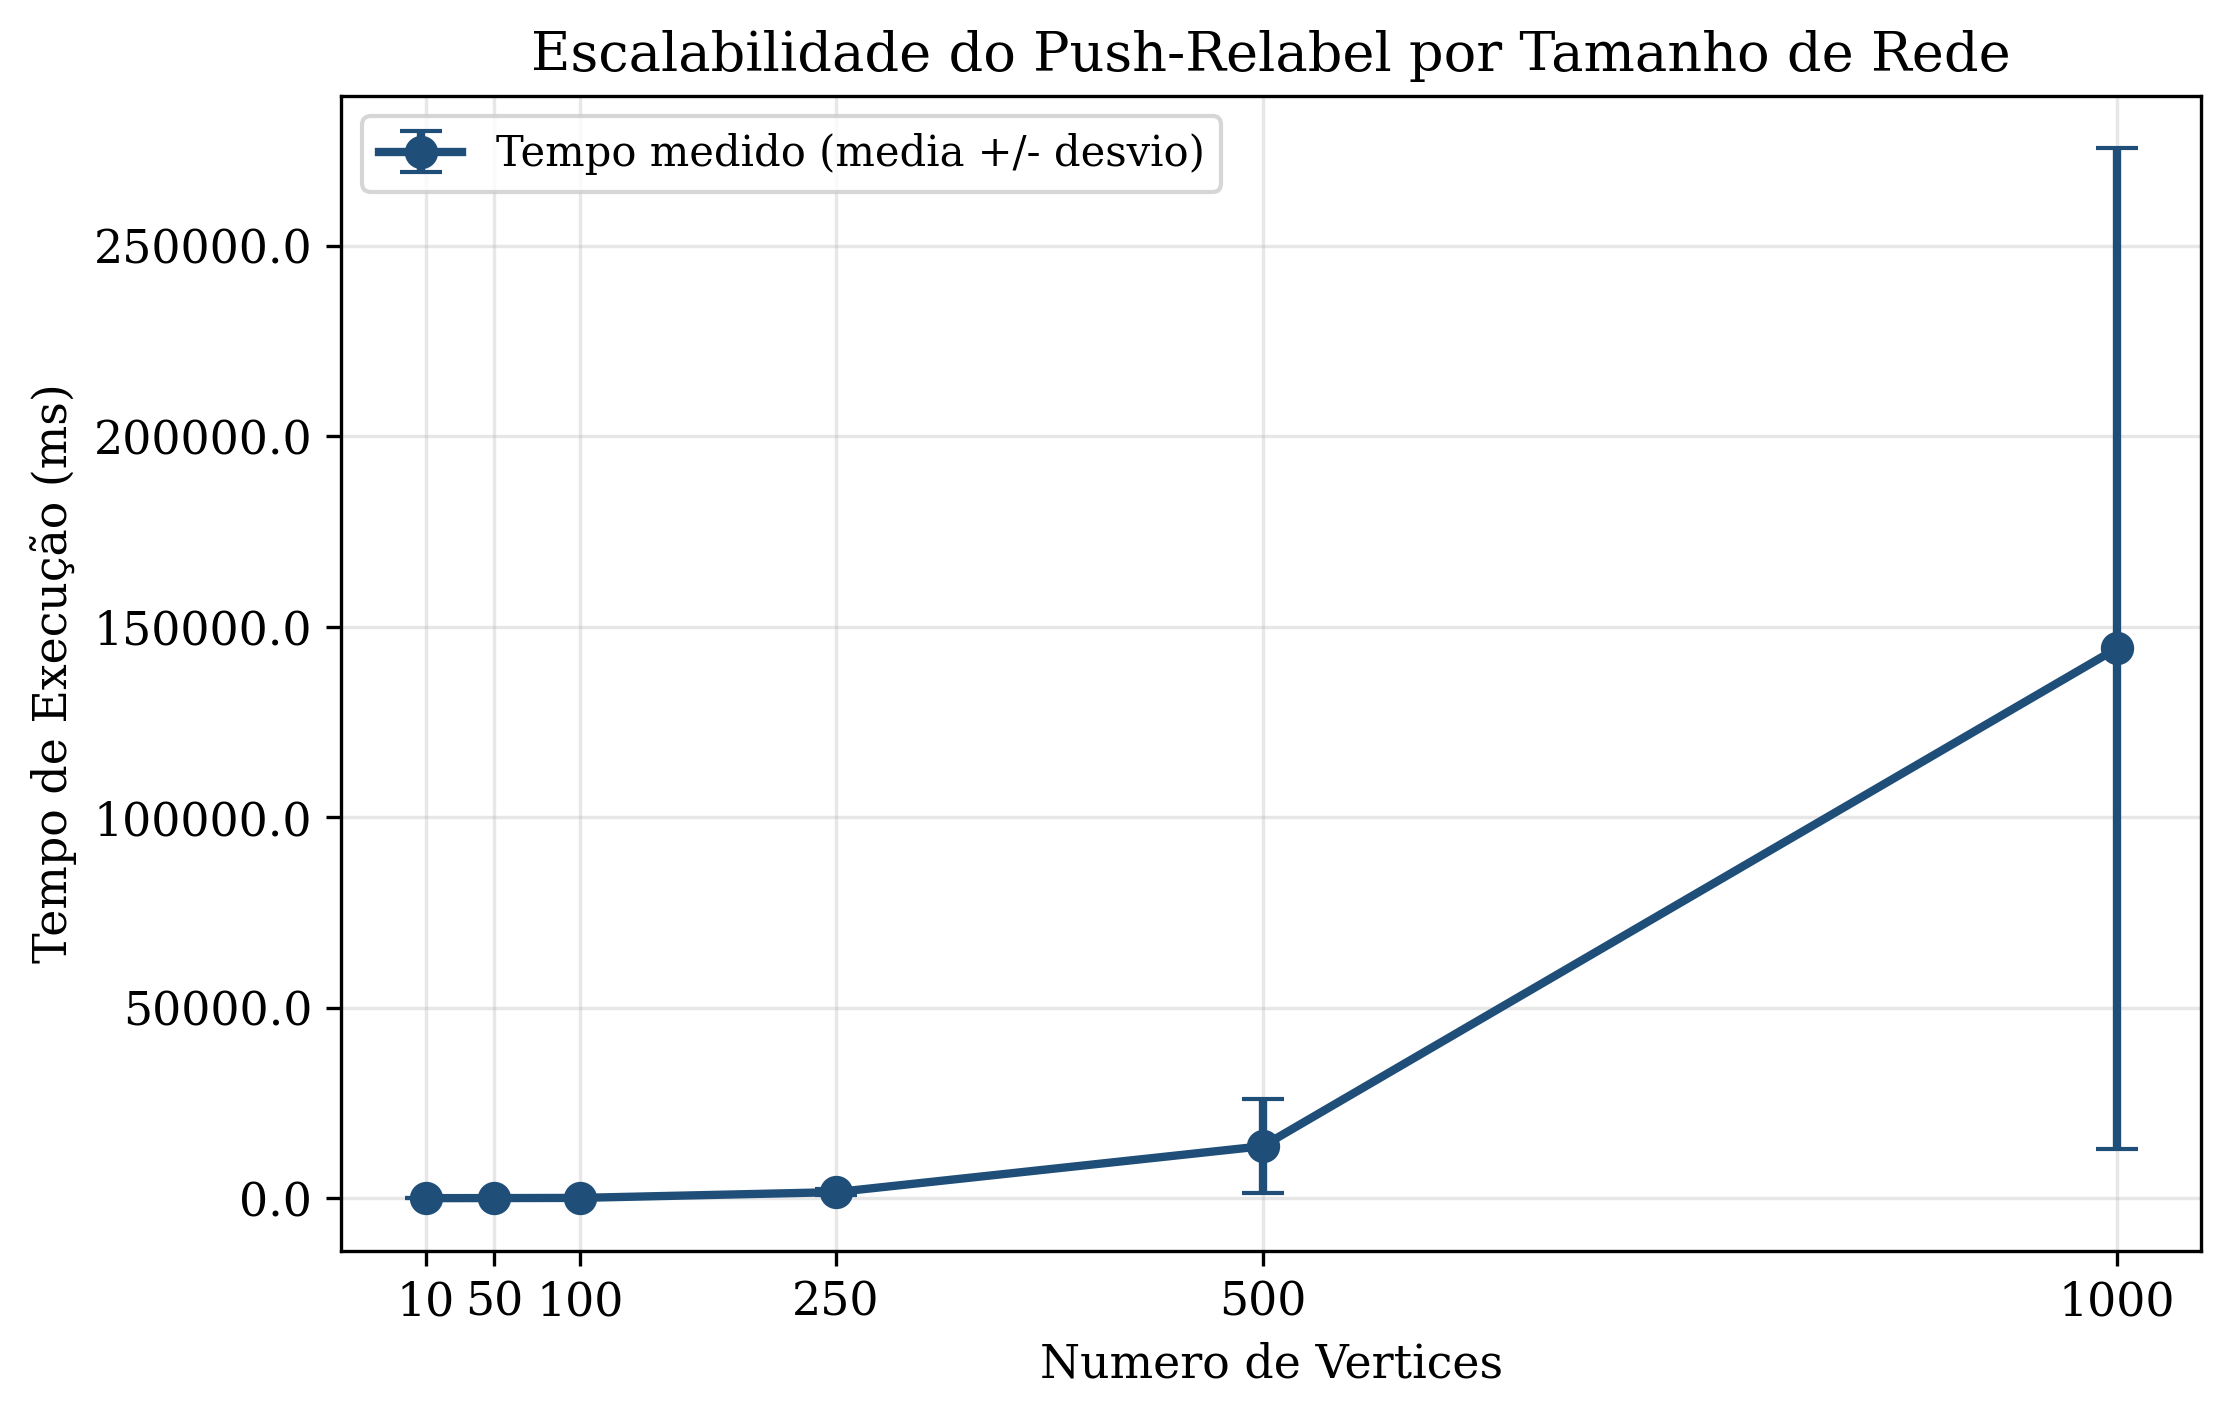
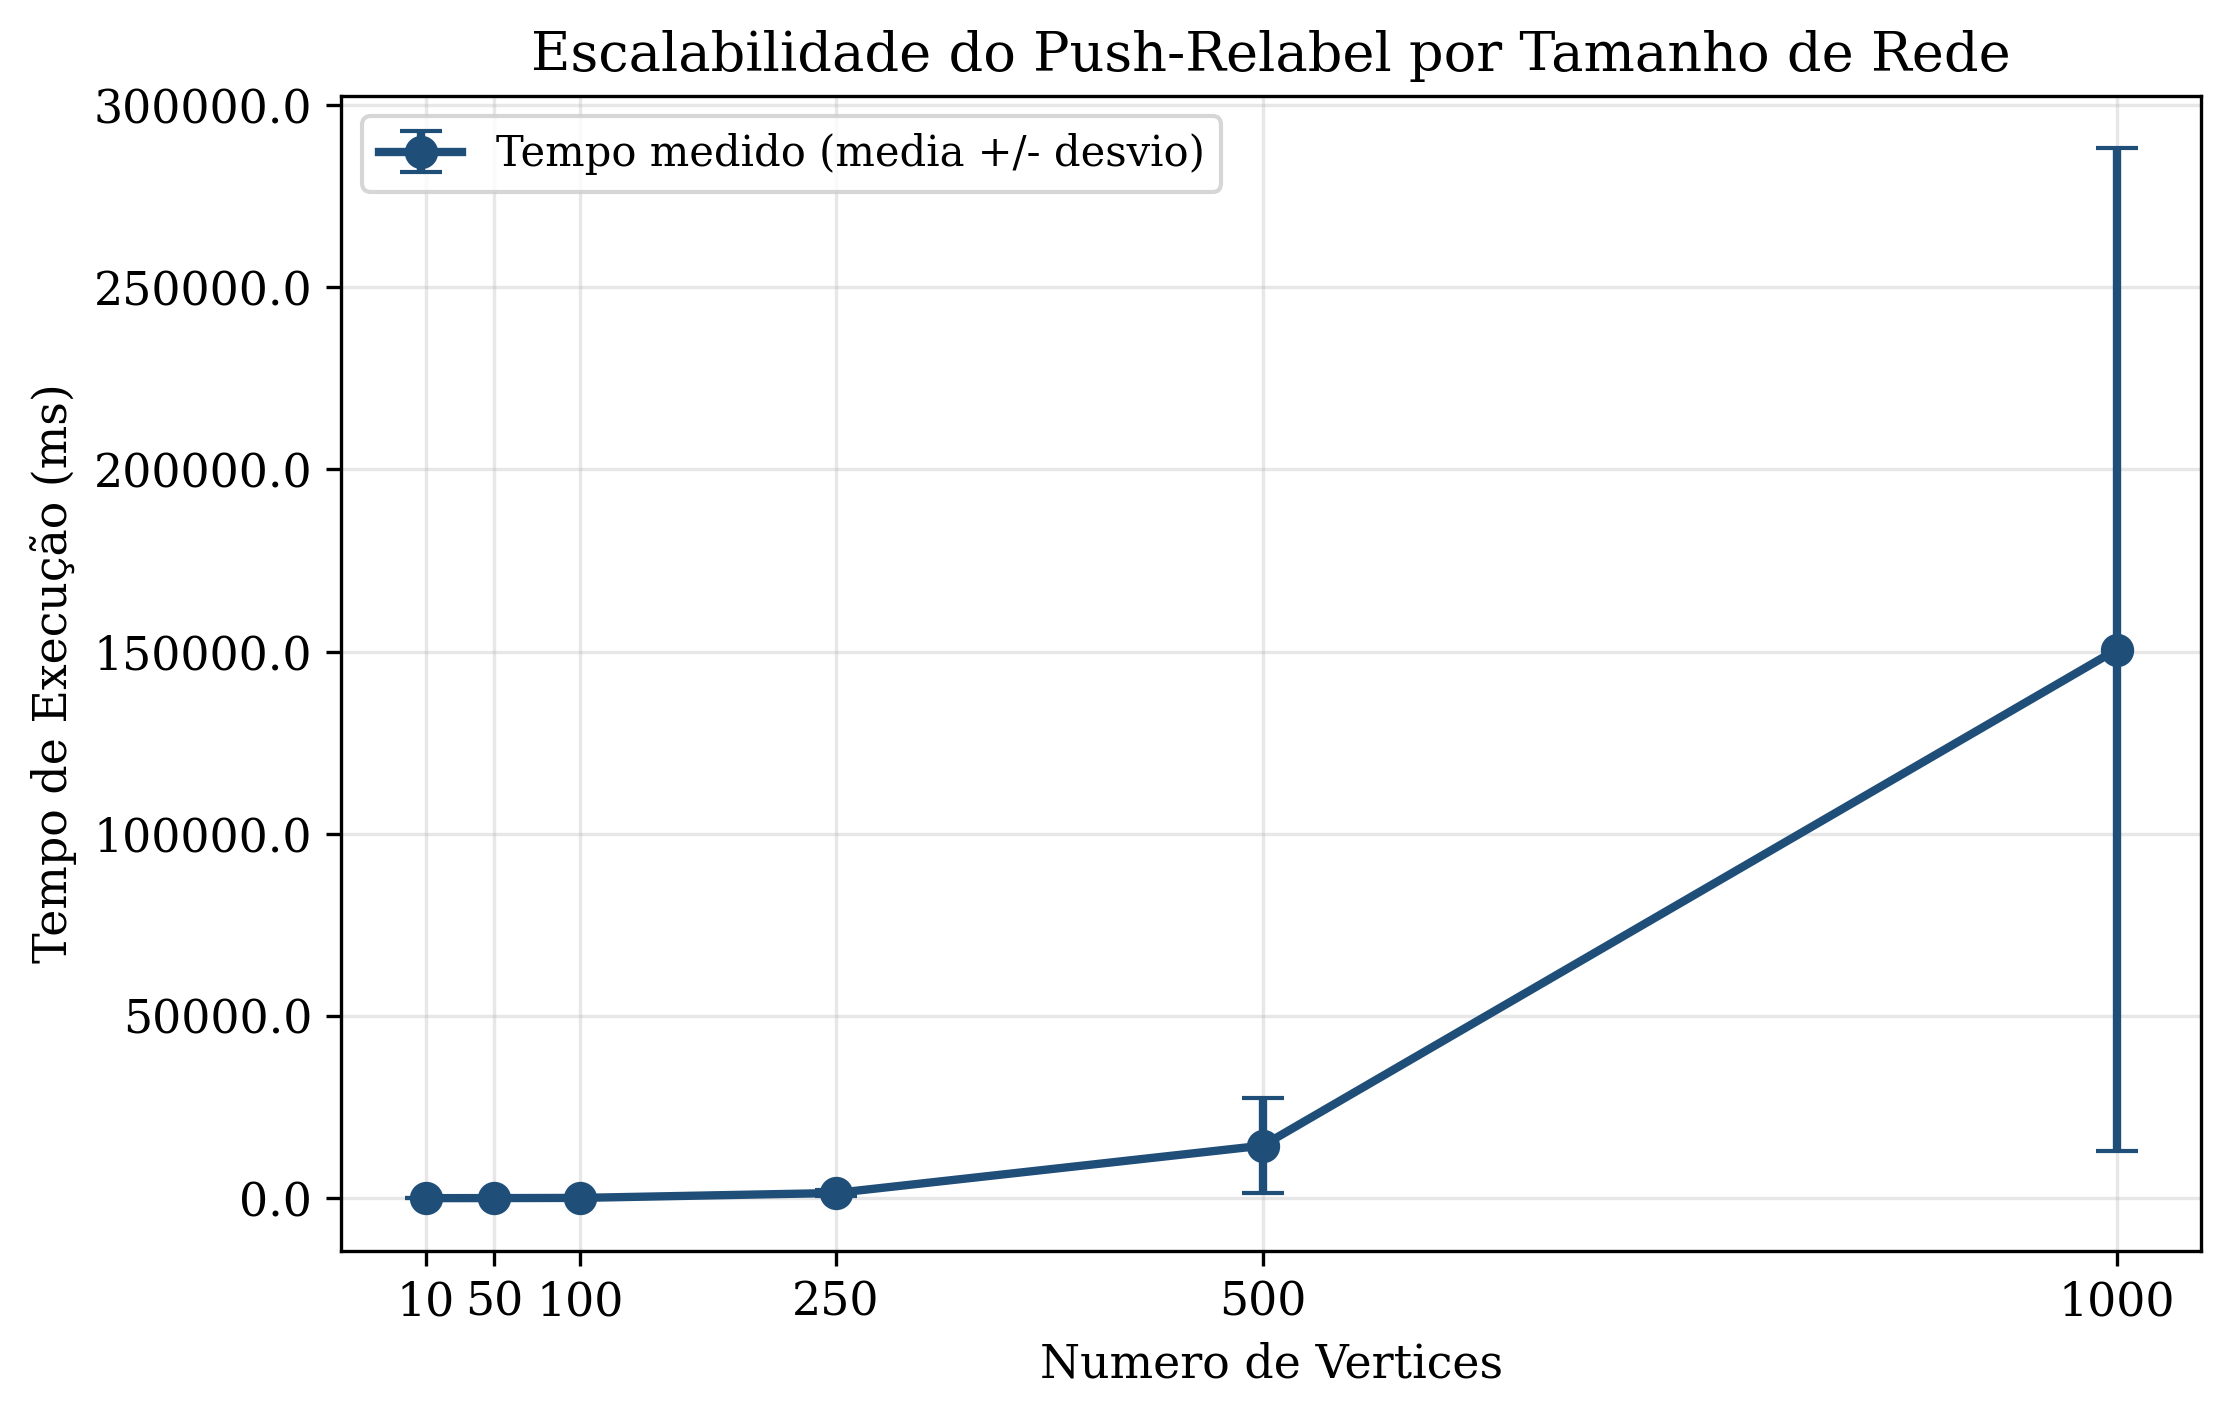
melhoras de visualização e README

diff --git a/tabela_densidade.tex b/tabela_densidade.tex
@@ -5,12 +5,12 @@
 \toprule
 Densidade & Rep. & Arestas (aprox.) & Fluxo Max. (media) & Tempo (ms) & Push (media) & Relabel (media) & Gargalos (media) \\
 \midrule
-0.1 & 7 & 990 & 451.7 & 23.454 +/- 21.024 & 7445 +/- 6695 & 5423 +/- 4876 & 8.3 \\
-0.2 & 7 & 1980 & 821.3 & 40.986 +/- 36.943 & 8611 +/- 7857 & 5537 +/- 4998 & 14.9 \\
-0.3 & 15 & 2970 & 1420.1 & 54.230 +/- 50.516 & 6899 +/- 6445 & 5234 +/- 4892 & 28.5 \\
-0.5 & 7 & 4950 & 2417.7 & 123.879 +/- 82.101 & 11760 +/- 8217 & 6994 +/- 4652 & 47.7 \\
-0.7 & 7 & 6930 & 3310.2 & 169.716 +/- 112.911 & 11400 +/- 8006 & 7019 +/- 4673 & 67.6 \\
-1.0 & 15 & 9900 & 4828.9 & 116.753 +/- 158.246 & 6262 +/- 8158 & 3385 +/- 4686 & 99.0 \\
+0.1 & 7 & 990 & 451.7 & 25.393 +/- 22.666 & 7445 +/- 6695 & 5423 +/- 4876 & 8.3 \\
+0.2 & 7 & 1980 & 821.3 & 42.708 +/- 38.480 & 8611 +/- 7857 & 5537 +/- 4998 & 14.9 \\
+0.3 & 15 & 2970 & 1420.1 & 58.696 +/- 54.745 & 6899 +/- 6445 & 5234 +/- 4892 & 28.5 \\
+0.5 & 7 & 4950 & 2417.7 & 131.742 +/- 87.400 & 11760 +/- 8217 & 6994 +/- 4652 & 47.7 \\
+0.7 & 7 & 6930 & 3310.2 & 188.361 +/- 124.685 & 11400 +/- 8006 & 7019 +/- 4673 & 67.6 \\
+1.0 & 15 & 9900 & 4828.9 & 129.841 +/- 176.768 & 6262 +/- 8158 & 3385 +/- 4686 & 99.0 \\
 \bottomrule
 \end{tabular}
 \end{table}

diff --git a/tabela_escalabilidade.tex b/tabela_escalabilidade.tex
@@ -6,11 +6,11 @@
 Vertices & Arestas (aprox.) & Fluxo Max. (media) & Tempo (ms) & Push (media) & Relabel (media) & Gargalos (media) \\
 \midrule
 10 & 27 & 153.4 & 0.044 +/- 0.026 & 25 +/- 16 & 20 +/- 14 & 3.6 \\
-50 & 735 & 733.5 & 13.040 +/- 0.455 & 3334 +/- 294 & 2320 +/- 6 & 13.8 \\
-100 & 2970 & 1312.4 & 61.004 +/- 53.872 & 9167 +/- 8125 & 5851 +/- 5177 & 27.2 \\
-250 & 18675 & 3728.7 & 1573.684 +/- 879.800 & 66742 +/- 38442 & 49332 +/- 27316 & 74.2 \\
-500 & 74850 & 6949.6 & 13642.189 +/- 12385.280 & 203762 +/- 189081 & 149193 +/- 135325 & 143.6 \\
-1000 & 299700 & 14046.0 & 144338.993 +/- 131333.650 & 889486 +/- 838771 & 598351 +/- 544412 & 288.0 \\
+50 & 735 & 733.5 & 13.107 +/- 0.215 & 3334 +/- 294 & 2320 +/- 6 & 13.8 \\
+100 & 2970 & 1312.4 & 61.206 +/- 53.964 & 9167 +/- 8125 & 5851 +/- 5177 & 27.2 \\
+250 & 18675 & 3728.7 & 1414.139 +/- 790.430 & 66742 +/- 38442 & 49332 +/- 27316 & 74.2 \\
+500 & 74850 & 6949.6 & 14418.455 +/- 13129.740 & 203762 +/- 189081 & 149193 +/- 135325 & 143.6 \\
+1000 & 299700 & 14046.0 & 150581.241 +/- 137613.363 & 889486 +/- 838771 & 598351 +/- 544412 & 288.0 \\
 \bottomrule
 \end{tabular}
 \end{table}

diff --git a/visualizations.py b/visualizations.py
@@ -432,5 +432,5 @@ def gerar_todas_visualizacoes(todos_resultados: Dict) -> None:
     pr.run(source, sink)
     _, _, gargalos = pr.get_min_cut(source)
     grafico_gargalos_rede(edges, gargalos, pr.n, source, sink)
-
+#oi
     print("\n  Todas as visualizacoes geradas com sucesso.")

diff --git a/README.md b/README.md
@@ -1,0 +1,34 @@
+# Maximização de Throughput em Redes de Computadores
+
+Este repositório contém a implementação nativa em Python 3 do algoritmo **Push-Relabel** para a resolução do problema clássico de Fluxo Máximo, aplicado à engenharia de tráfego em redes de computadores. 
+
+O projeto foi desenvolvido como Trabalho Final da disciplina de Introdução à Teoria dos Grafos (ICC041 / PPGINF539) do Instituto de Computação da Universidade Federal do Amazonas (UFAM).
+
+## Estrutura do Projeto
+
+A arquitetura do código foi modularizada para separar a lógica matemática da instrumentação de testes:
+
+* `push_relabel.py`: Motor central do algoritmo, contendo as lógicas de inicialização de pré-fluxo e as operações locais (*Push* e *Relabel*), operando sobre listas de adjacência.
+* `network_generator.py`: Gerador sintético de grafos capaz de instanciar topologias de redes aleatórias, redes em camadas (*data centers*) e redes de pior caso.
+* `experiments.py`: Bateria completa de simulações para extração de métricas de escalabilidade, impacto de densidade e identificação de corte mínimo (gargalos físicos).
+* `visualizations.py`: Módulo de automação para exportação de tabelas `.csv`/`.tex` e renderização de gráficos estruturais e de desempenho.
+* `main.py`: Ponto de entrada que executa uma demonstração didática e dispara todos os experimentos.
+
+## Requisitos e Execução
+
+A bateria de testes foi homologada em ambiente **Ubuntu Linux**. Para executar localmente, certifique-se de ter o Python 3 instalado.
+
+1. Clone o repositório:
+
+        git clone https://github.com/L-200/Grafos-em-redes
+        cd Grafos-em-redes
+
+2. Instale as bibliotecas necessárias para a modelagem de rede e geração de gráficos:
+
+        pip install networkx matplotlib pandas numpy
+
+3. Inicie a execução:
+
+        python3 main.py
+
+Ao final da execução, os arquivos `.pdf`, `.png` e `.tex` serão gerados automaticamente no diretório raiz com todas as visualizações do fluxo e resultados tabelados.